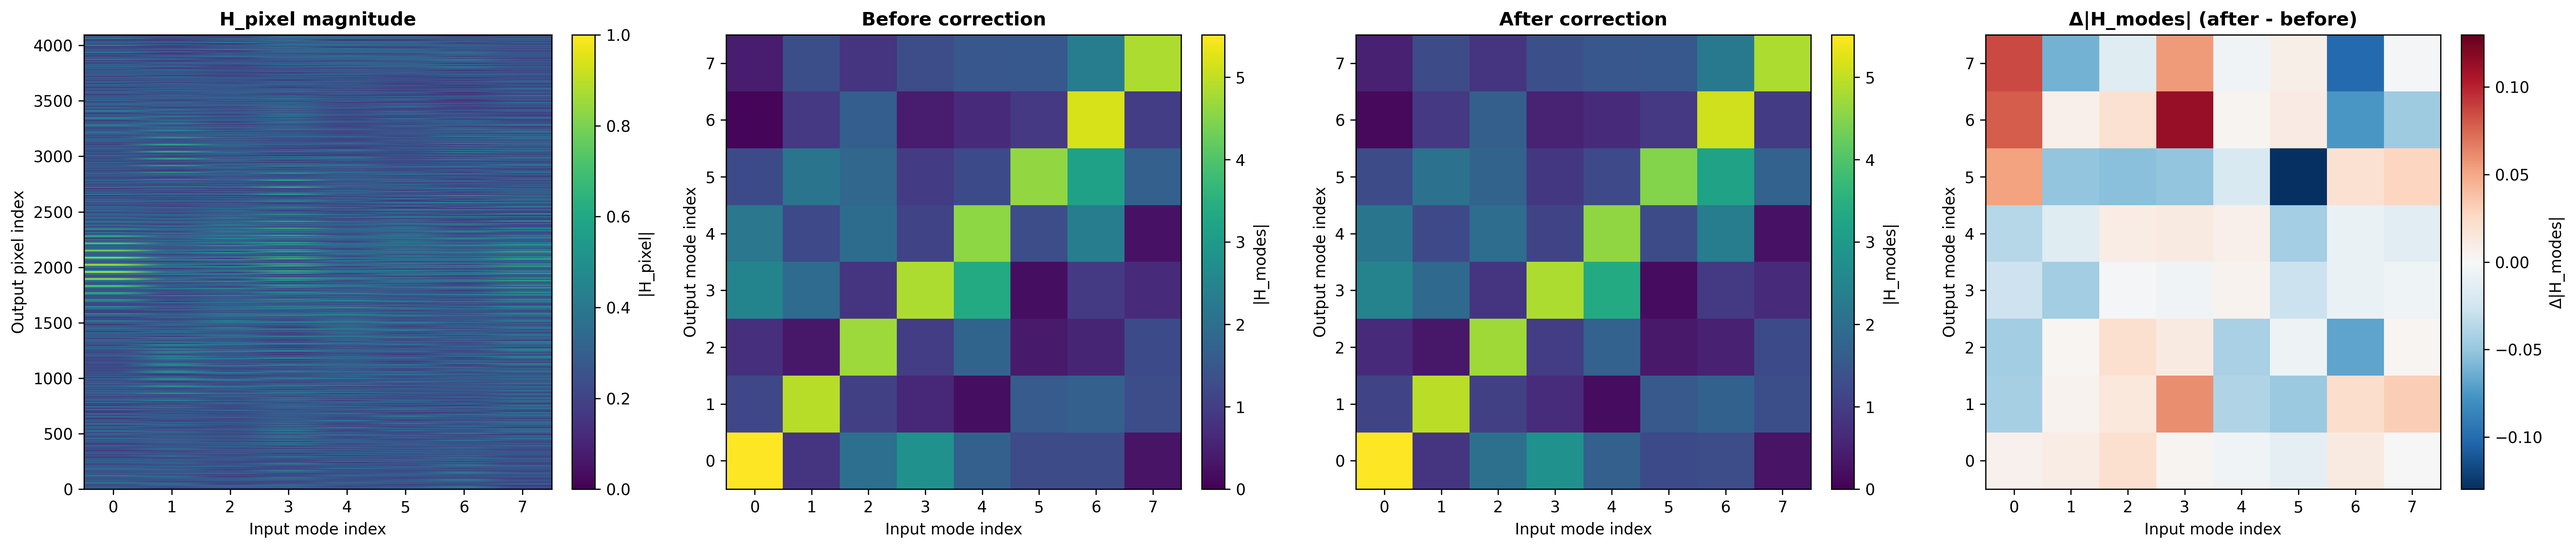
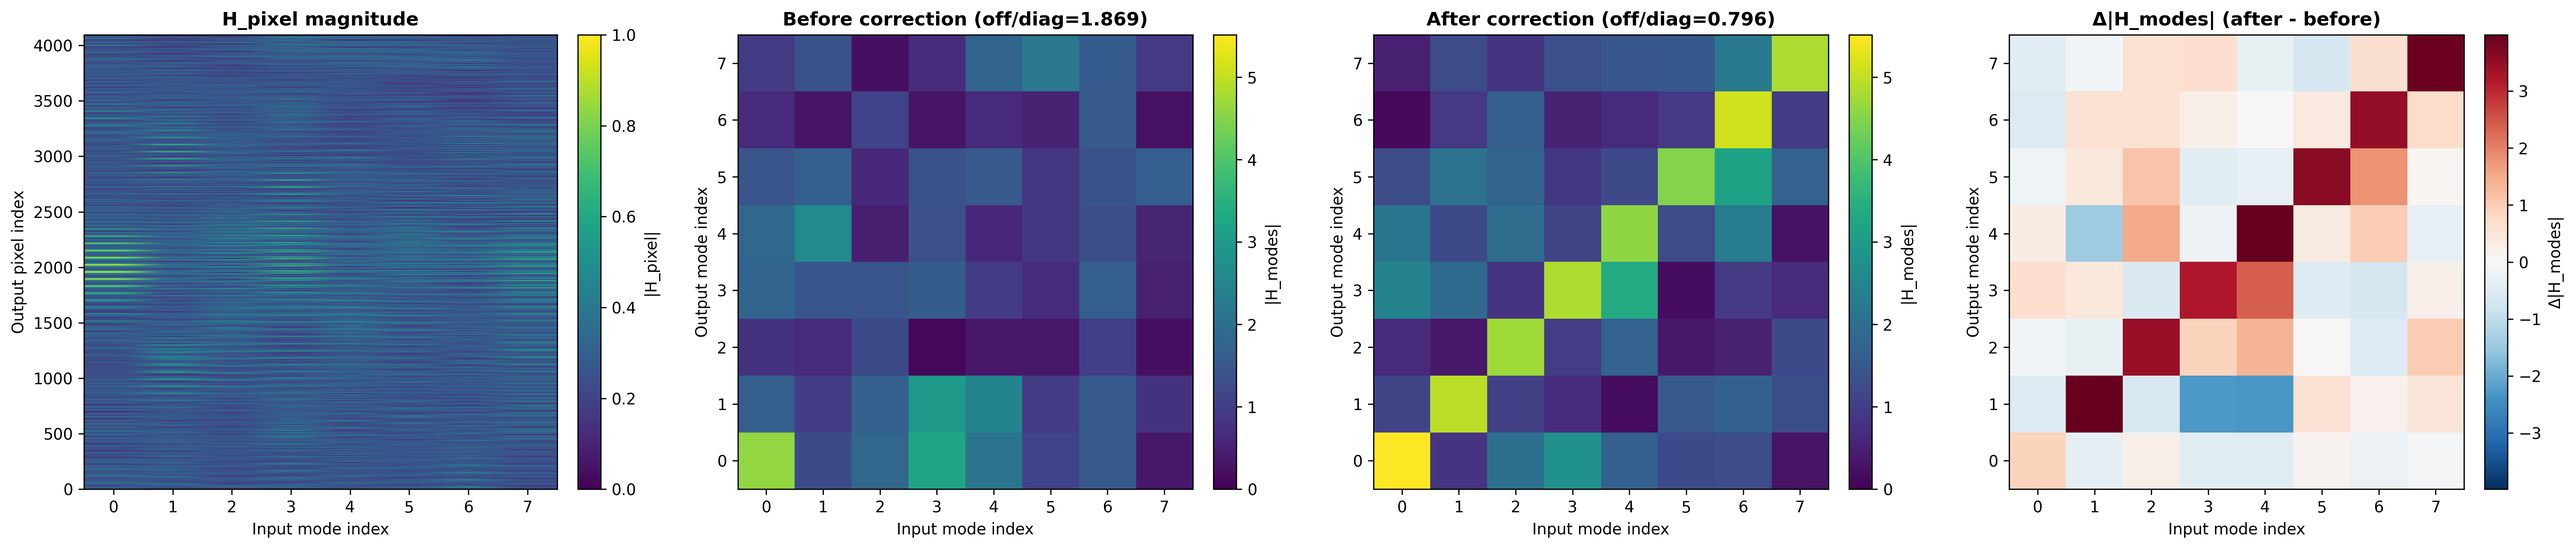
Make fig15 correction effect visually distinct.
Use an intentionally misaligned output basis for the before panel and show off/diag ratios in titles so the before/after difference is clear in the report figure.

Made-with: Cursor

diff --git a/generate_report_figures.py b/generate_report_figures.py
@@ -697,7 +697,19 @@ try:
             "sim_extent_um": FiberParams.sim_extent_um,
         }
 
-        M_out0, _ = recon.build_output_mode_matrix(grid_size=grid_size, fiber_params=fiber_params)
+        # Build an intentionally misaligned output basis for the "before" panel,
+        # so the correction effect is visually obvious.
+        misalign_before = {
+            "scale": 1.04,
+            "shift_x_px": 8.0,
+            "shift_y_px": -6.0,
+            "rotation_deg": 6.0,
+        }
+        M_out0, _ = recon.build_output_mode_matrix(
+            grid_size=grid_size,
+            fiber_params=fiber_params,
+            correction_params=misalign_before,
+        )
         k0 = min(M_out0.shape[1], n_in, MTMConfig.num_modes)
         M_in = _build_m_in_hadamard(n_input=n_in, n_modes=k0)
 
@@ -723,6 +735,16 @@ try:
         mag0 = np.abs(T_before)
         mag1 = np.abs(T_after)
 
+        def _offdiag_ratio(m: np.ndarray) -> float:
+            n = m.shape[0]
+            mask = np.eye(n, dtype=bool)
+            off = m[~mask]
+            diag = m[mask]
+            return float(np.linalg.norm(off) / (np.linalg.norm(diag) + 1e-12))
+
+        r_before = _offdiag_ratio(mag0)
+        r_after = _offdiag_ratio(mag1)
+
         fig, axes = plt.subplots(1, 4, figsize=(23, 5))
 
         # Left: pixel-domain matrix magnitude
@@ -736,14 +758,14 @@ try:
         vmax_m = float(max(np.max(mag0), np.max(mag1), 1e-12))
         # Middle: mode-domain before correction
         im0 = axes[1].imshow(mag0, cmap="viridis", origin="lower", vmin=0.0, vmax=vmax_m)
-        axes[1].set_title("Before correction", fontsize=12, fontweight="bold")
+        axes[1].set_title(f"Before correction (off/diag={r_before:.3f})", fontsize=12, fontweight="bold")
         axes[1].set_xlabel("Input mode index")
         axes[1].set_ylabel("Output mode index")
         plt.colorbar(im0, ax=axes[1], fraction=0.046, pad=0.04, label="|H_modes|")
 
         # Right-middle: mode-domain after correction
         im1 = axes[2].imshow(mag1, cmap="viridis", origin="lower", vmin=0.0, vmax=vmax_m)
-        axes[2].set_title("After correction", fontsize=12, fontweight="bold")
+        axes[2].set_title(f"After correction (off/diag={r_after:.3f})", fontsize=12, fontweight="bold")
         axes[2].set_xlabel("Input mode index")
         axes[2].set_ylabel("Output mode index")
         plt.colorbar(im1, ax=axes[2], fraction=0.046, pad=0.04, label="|H_modes|")
